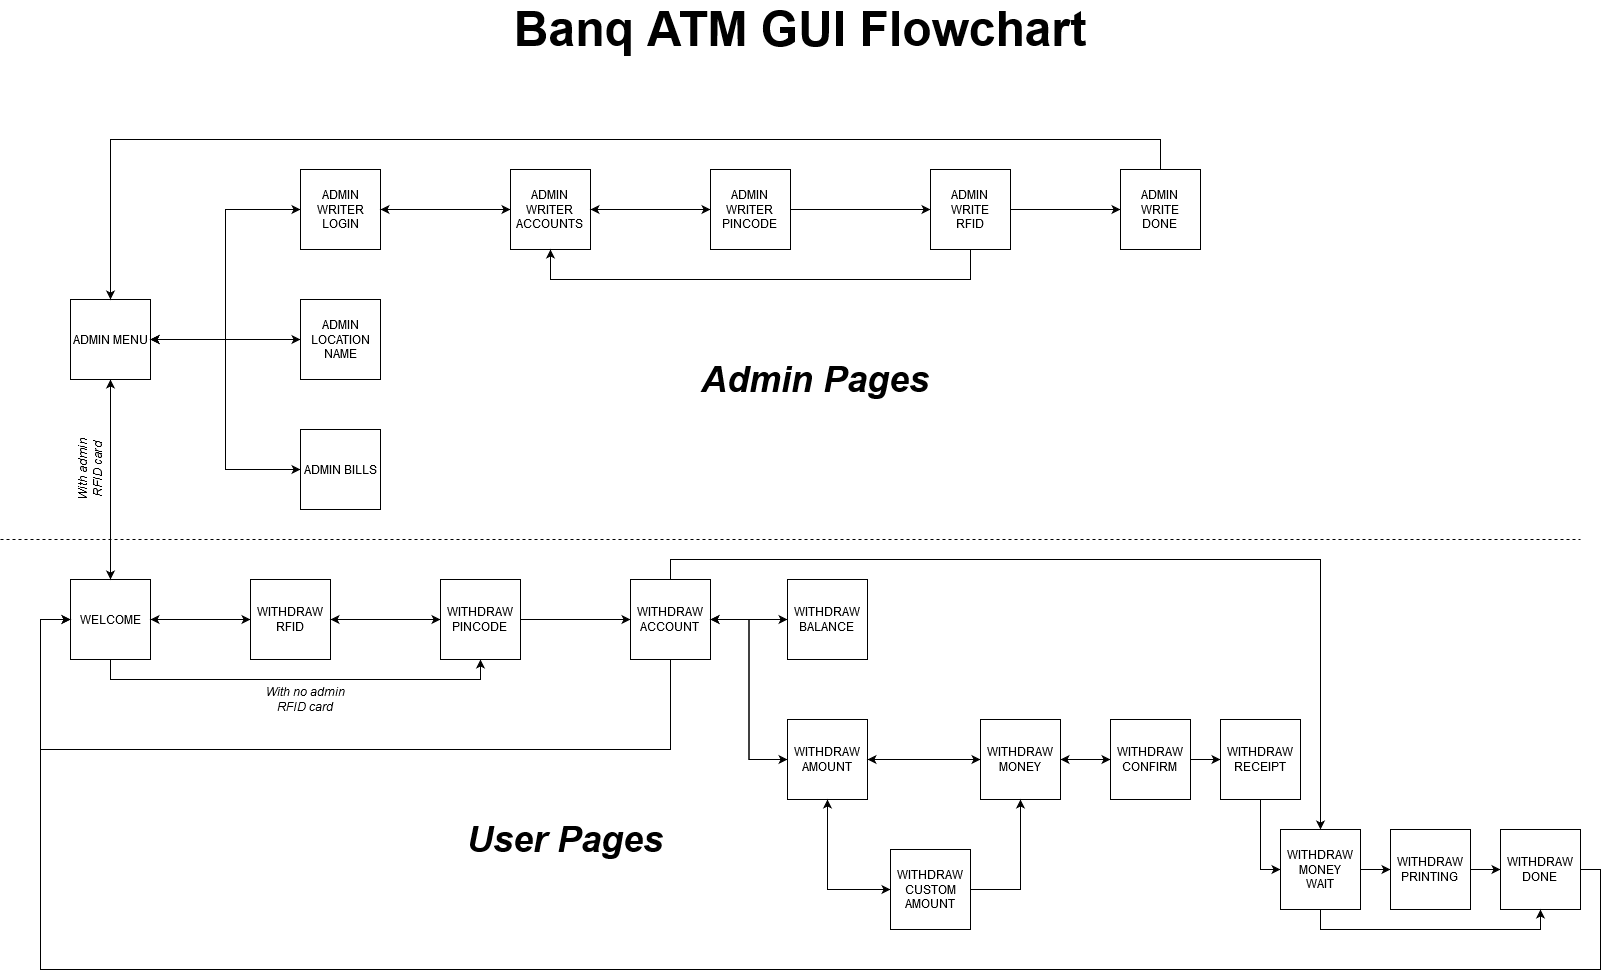
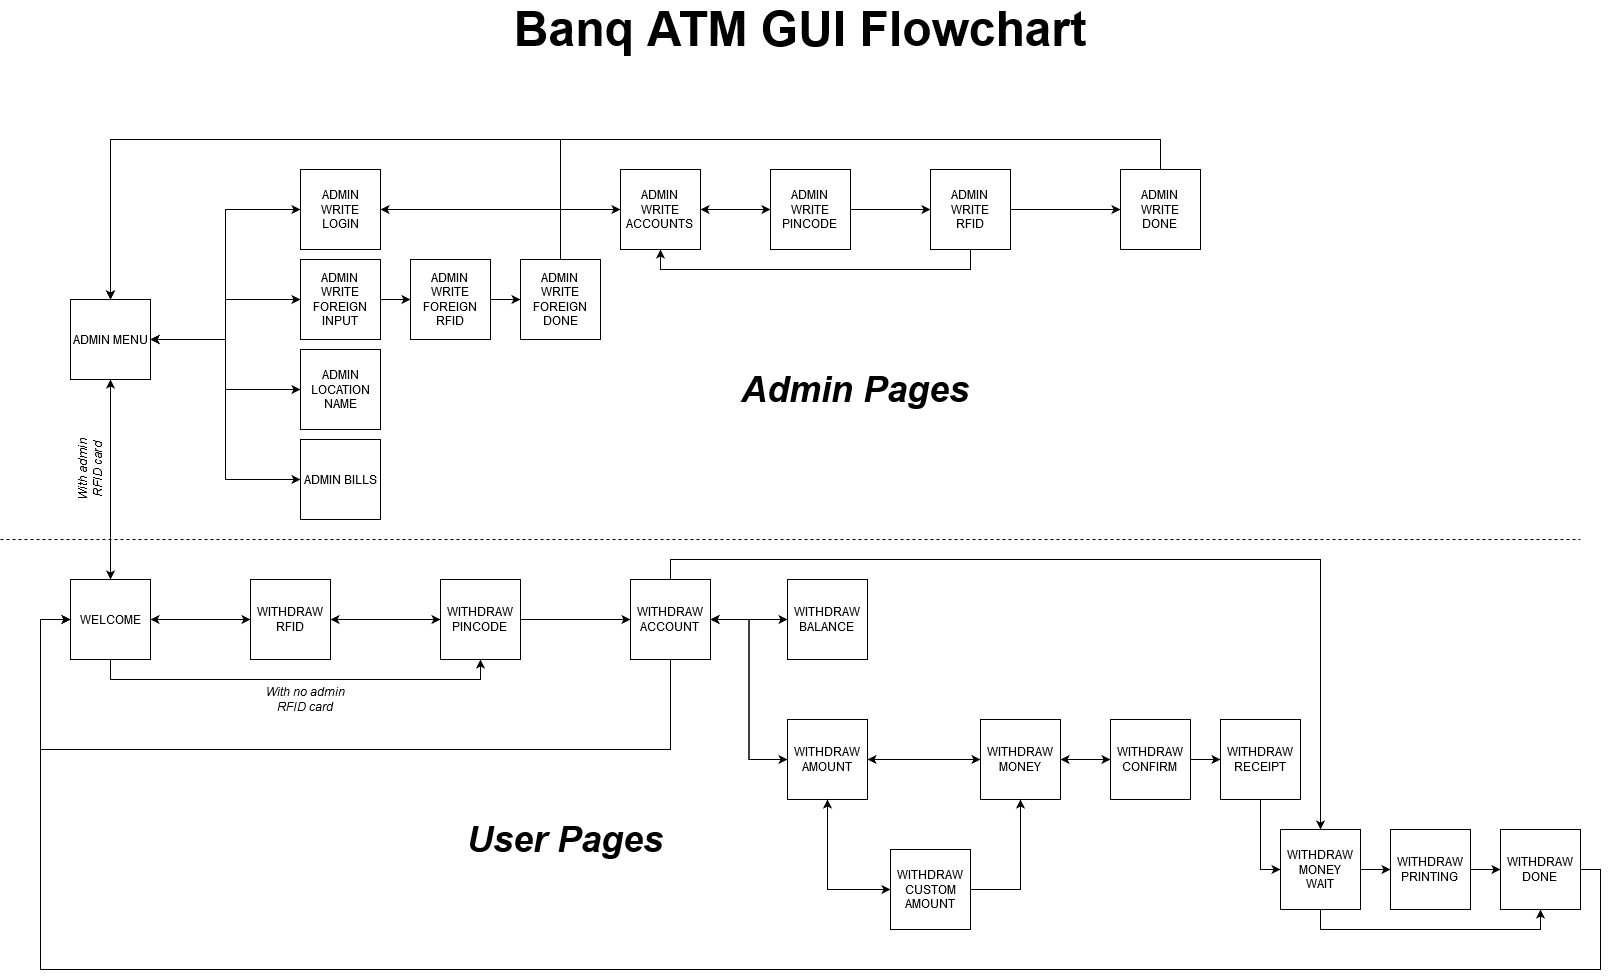
Add write foreign account string to card page in the ATM GUI

Changed region(s): [[0.1865, 0.184, 0.5283, 0.4294], [0.4351, 0.3681, 0.5904, 0.4294], [0.1865, 0.4601, 0.2486, 0.5215]]

diff --git a/atm-client/atm-gui/src/main/java/ml/banq/atm/AdminWriteForeignInputPage.java b/atm-client/atm-gui/src/main/java/ml/banq/atm/AdminWriteForeignInputPage.java
@@ -1,0 +1,106 @@
+package ml.banq.atm;
+
+import java.awt.event.ActionEvent;
+import java.awt.Component;
+import java.awt.Dimension;
+import java.awt.FlowLayout;
+import javax.swing.Box;
+import javax.swing.BoxLayout;
+import javax.swing.JButton;
+import javax.swing.JLabel;
+import javax.swing.JPanel;
+import javax.swing.JTextField;
+
+// The admin write foreign input page
+public class AdminWriteForeignInputPage extends Page {
+    private static final long serialVersionUID = 1;
+
+    private JLabel messageLabel;
+    private JTextField accountInput;
+
+    public AdminWriteForeignInputPage() {
+        setLayout(new BoxLayout(this, BoxLayout.PAGE_AXIS));
+
+        add(Box.createVerticalGlue());
+
+        // Create the page title
+        JLabel titleLabel = new JLabel(Language.getString("admin_write_foreign_input_page_title"));
+        titleLabel.setAlignmentX(Component.CENTER_ALIGNMENT);
+        titleLabel.setFont(Fonts.HEADER);
+        add(titleLabel);
+
+        add(Box.createVerticalStrut(Paddings.LARGE));
+
+        // Create the page message label
+        messageLabel = new JLabel(Language.getString("admin_write_foreign_input_page_message"));
+        messageLabel.setAlignmentX(Component.CENTER_ALIGNMENT);
+        messageLabel.setFont(Fonts.NORMAL);
+        add(messageLabel);
+
+        add(Box.createVerticalStrut(Paddings.LARGE));
+
+        // Create the page account input label
+        JLabel accountLabel = new JLabel(Language.getString("admin_write_foreign_input_page_account_input"));
+        accountLabel.setAlignmentX(Component.CENTER_ALIGNMENT);
+        accountLabel.setFont(Fonts.NORMAL);
+        add(accountLabel);
+
+        add(Box.createVerticalStrut(Paddings.NORMAL));
+
+        // Create the page account input field
+        accountInput = new JTextField(16);
+        accountInput.setFont(Fonts.NORMAL);
+        accountInput.setHorizontalAlignment(JTextField.CENTER);
+        accountInput.setMaximumSize(accountInput.getPreferredSize());
+        add(accountInput);
+
+        add(Box.createVerticalStrut(Paddings.LARGE));
+
+        // Create the buttons box
+        JPanel buttonsBox = new JPanel(new FlowLayout(FlowLayout.CENTER, Paddings.NORMAL, 0));
+        buttonsBox.setMaximumSize(new Dimension(App.getInstance().getWindowWidth() / 2, 0));
+        add(buttonsBox);
+
+        // Create the write button
+        JButton writeButton = new JButton(Language.getString("admin_write_foreign_input_page_write_button"));
+        writeButton.setFont(Fonts.NORMAL);
+        writeButton.addActionListener((ActionEvent event) -> {
+            tryToWrite();
+        });
+        buttonsBox.add(writeButton);
+
+        // Create the back button
+        JButton backButton = new JButton(Language.getString("admin_write_foreign_input_page_back_button"));
+        backButton.setAlignmentX(Component.CENTER_ALIGNMENT);
+        backButton.setFont(Fonts.NORMAL);
+        backButton.addActionListener((ActionEvent event) -> {
+            Navigator.getInstance().changePage(new AdminMenuPage());
+        });
+        buttonsBox.add(backButton);
+
+        add(Box.createVerticalGlue());
+    }
+
+    // Try to go to the next page
+    private void tryToWrite() {
+        if (accountInput.getText().length() == Config.ACCOUNT_STRING_LENGTH) {
+            Navigator.getInstance().changePage(new AdminWriteForeignRFIDPage(accountInput.getText()));
+        } else {
+            App.getInstance().sendBeeper(110, 250);
+            messageLabel.setFont(Fonts.NORMAL_BOLD);
+            messageLabel.setText(Language.getString("admin_write_foreign_input_page_error"));
+        }
+    }
+
+    public void onKeypad(String key) {
+        // When pressed try to write
+        if (key.equals("#")) {
+            tryToWrite();
+        }
+
+        // When pressed go back to the previous page
+        if (key.equals("D")) {
+            Navigator.getInstance().changePage(new AdminMenuPage());
+        }
+    }
+}

diff --git a/atm-client/atm-gui/src/main/java/ml/banq/atm/AdminMenuPage.java b/atm-client/atm-gui/src/main/java/ml/banq/atm/AdminMenuPage.java
@@ -36,7 +36,7 @@ public class AdminMenuPage extends Page {
         add(Box.createVerticalStrut(Paddings.LARGE));
 
         // Create the second menu option
-        JLabel menu2Label = new JLabel("2. " + Language.getString("admin_menu_page_location"));
+        JLabel menu2Label = new JLabel("2. " + Language.getString("admin_menu_page_write_foreign"));
         menu2Label.setAlignmentX(Component.CENTER_ALIGNMENT);
         menu2Label.setFont(Fonts.NORMAL);
         add(menu2Label);
@@ -44,18 +44,26 @@ public class AdminMenuPage extends Page {
         add(Box.createVerticalStrut(Paddings.LARGE));
 
         // Create the third menu option
-        JLabel menu3Label = new JLabel("3. " + Language.getString("admin_menu_page_bills"));
+        JLabel menu3Label = new JLabel("3. " + Language.getString("admin_menu_page_location"));
         menu3Label.setAlignmentX(Component.CENTER_ALIGNMENT);
         menu3Label.setFont(Fonts.NORMAL);
         add(menu3Label);
 
         add(Box.createVerticalStrut(Paddings.LARGE));
 
-        // Create the second menu / back option
-        JLabel menu4Label = new JLabel("D. " + Language.getString("admin_menu_page_back"));
+        // Create the fourth menu option
+        JLabel menu4Label = new JLabel("4. " + Language.getString("admin_menu_page_bills"));
         menu4Label.setAlignmentX(Component.CENTER_ALIGNMENT);
         menu4Label.setFont(Fonts.NORMAL);
         add(menu4Label);
+
+        add(Box.createVerticalStrut(Paddings.LARGE));
+
+        // Create the back menu option
+        JLabel backLabel = new JLabel("D. " + Language.getString("admin_menu_page_back"));
+        backLabel.setAlignmentX(Component.CENTER_ALIGNMENT);
+        backLabel.setFont(Fonts.NORMAL);
+        add(backLabel);
 
         add(Box.createVerticalGlue());
     }
@@ -66,17 +74,22 @@ public class AdminMenuPage extends Page {
             Navigator.getInstance().changePage(new AdminWriteLoginPage());
         }
 
-        // When menu option 2 is selected go to the admin location page
+        // When menu option 2 is selected go to the admin write foreign input page
         if (key.equals("2")) {
+            Navigator.getInstance().changePage(new AdminWriteForeignInputPage());
+        }
+
+        // When menu option 3 is selected go to the admin location page
+        if (key.equals("3")) {
             Navigator.getInstance().changePage(new AdminLocationPage());
         }
 
-        // When menu option 3 is selected go to the admin bills page
-        if (key.equals("3")) {
+        // When menu option 4 is selected go to the admin bills page
+        if (key.equals("4")) {
             Navigator.getInstance().changePage(new AdminBillsPage());
         }
 
-        // When menu option 3 / back is selected go back to the welcome page and hide the cursor again
+        // When menu option back is selected go back to the welcome page and hide the cursor again
         if (key.equals("D")) {
             if (Config.FULLSCREEN_MODE) {
                 App.getInstance().hideCursor();

diff --git a/atm-client/atm-gui/src/main/java/ml/banq/atm/AdminWriteForeignDonePage.java b/atm-client/atm-gui/src/main/java/ml/banq/atm/AdminWriteForeignDonePage.java
@@ -5,17 +5,17 @@ import javax.swing.Box;
 import javax.swing.BoxLayout;
 import javax.swing.JLabel;
 
-// The admin write done page
-public class AdminWriteDonePage extends Page {
+// The admin foreign write done page
+public class AdminWriteForeignDonePage extends Page {
     private static final long serialVersionUID = 1;
 
-    public AdminWriteDonePage(String rfid_uid) {
+    public AdminWriteForeignDonePage(String rfid_uid) {
         setLayout(new BoxLayout(this, BoxLayout.PAGE_AXIS));
 
         add(Box.createVerticalGlue());
 
         // Create the page title
-        JLabel titleLabel = new JLabel(Language.getString("admin_write_done_page_title"));
+        JLabel titleLabel = new JLabel(Language.getString("admin_write_foreign_done_page_title"));
         titleLabel.setAlignmentX(Component.CENTER_ALIGNMENT);
         titleLabel.setFont(Fonts.HEADER);
         add(titleLabel);
@@ -23,7 +23,7 @@ public class AdminWriteDonePage extends Page {
         add(Box.createVerticalStrut(Paddings.LARGE));
 
         // Create the page message label
-        JLabel messageLabel = new JLabel(Language.getString("admin_write_done_page_message"));
+        JLabel messageLabel = new JLabel(Language.getString("admin_write_foreign_done_page_message"));
         messageLabel.setAlignmentX(Component.CENTER_ALIGNMENT);
         messageLabel.setFont(Fonts.NORMAL);
         add(messageLabel);
@@ -31,7 +31,7 @@ public class AdminWriteDonePage extends Page {
         add(Box.createVerticalStrut(Paddings.LARGE));
 
         // Create the page rfid label
-        JLabel rfidLabel = new JLabel(Language.getString("admin_write_done_page_rfid_prefix") + " " + rfid_uid);
+        JLabel rfidLabel = new JLabel(Language.getString("admin_write_foreign_done_page_rfid_prefix") + " " + rfid_uid);
         rfidLabel.setAlignmentX(Component.CENTER_ALIGNMENT);
         rfidLabel.setFont(Fonts.NORMAL);
         add(rfidLabel);

diff --git a/atm-client/atm-gui/src/main/java/ml/banq/atm/AdminWriteForeignRFIDPage.java b/atm-client/atm-gui/src/main/java/ml/banq/atm/AdminWriteForeignRFIDPage.java
@@ -1,0 +1,42 @@
+package ml.banq.atm;
+
+import java.awt.Component;
+import javax.swing.Box;
+import javax.swing.BoxLayout;
+import javax.swing.JLabel;
+
+// The admin write foreign RFID page
+public class AdminWriteForeignRFIDPage extends Page {
+    private static final long serialVersionUID = 1;
+
+    public AdminWriteForeignRFIDPage(String accountId) {
+        setLayout(new BoxLayout(this, BoxLayout.PAGE_AXIS));
+
+        add(Box.createVerticalGlue());
+
+        // Create the page title page
+        JLabel titleLabel = new JLabel(Language.getString("admin_write_foreign_rfid_page_title"));
+        titleLabel.setAlignmentX(Component.CENTER_ALIGNMENT);
+        titleLabel.setFont(Fonts.HEADER);
+        add(titleLabel);
+
+        add(Box.createVerticalStrut(Paddings.LARGE));
+
+        // Create the page message label
+        JLabel messageLabel = new JLabel(Language.getString("admin_write_foreign_rfid_page_message_prefix") + " " + accountId);
+        messageLabel.setAlignmentX(Component.CENTER_ALIGNMENT);
+        messageLabel.setFont(Fonts.NORMAL);
+        add(messageLabel);
+
+        add(Box.createVerticalGlue());
+
+        // Init writing to the card
+        App.getInstance().sendWriteRFID(accountId);
+    }
+
+    public void onRFIDWrite(String account_id, String rfid_uid) {
+        // Go to the done page
+        App.getInstance().sendBeeper(880, 250);
+        Navigator.getInstance().changePage(new AdminWriteForeignDonePage(rfid_uid), false);
+    }
+}

diff --git a/atm-client/atm-gui/src/main/java/ml/banq/atm/AdminWriteRFIDPage.java b/atm-client/atm-gui/src/main/java/ml/banq/atm/AdminWriteRFIDPage.java
@@ -47,7 +47,7 @@ public class AdminWriteRFIDPage extends Page {
 
             // Go to the done page
             App.getInstance().sendBeeper(880, 250);
-            Navigator.getInstance().changePage(new AdminWriteDonePage(), false);
+            Navigator.getInstance().changePage(new AdminWriteDonePage(rfid_uid), false);
         }
 
         // When a card is already written

diff --git a/atm-client/atm-gui/src/main/java/ml/banq/atm/Config.java b/atm-client/atm-gui/src/main/java/ml/banq/atm/Config.java
@@ -28,4 +28,5 @@ public class Config {
     public static final int[] DEFAULT_AMOUNTS = { 5, 10, 20, 50, 70, 100, 200 };
     public static final int[] ISSUE_AMOUNTS = { 5, 10, 20, 50 };
     public static final int PRINTER_PAPER_WIDTH = 32;
+    public static final int ACCOUNT_STRING_LENGTH = 16;
 }
